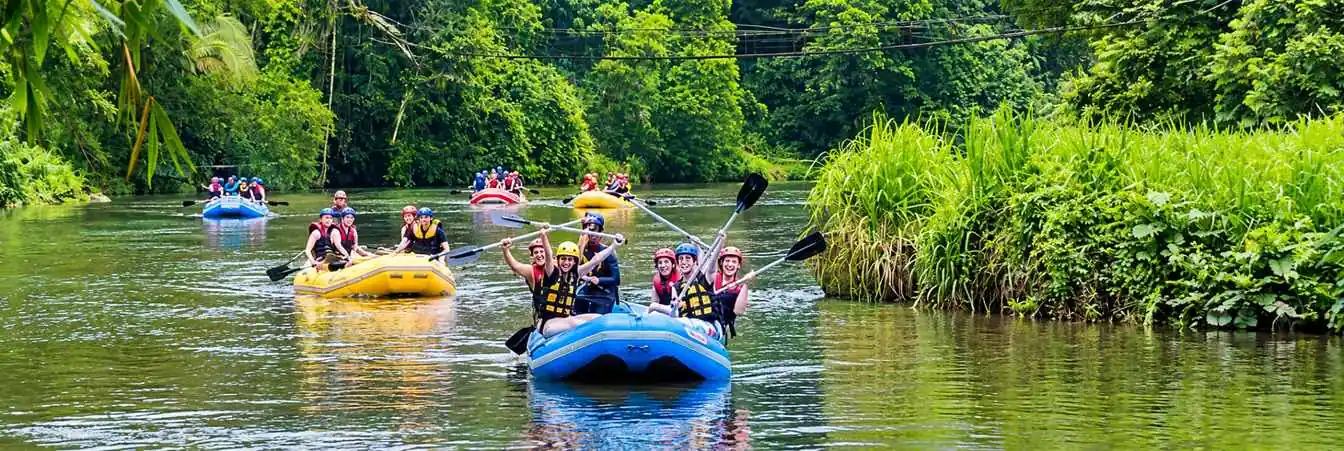
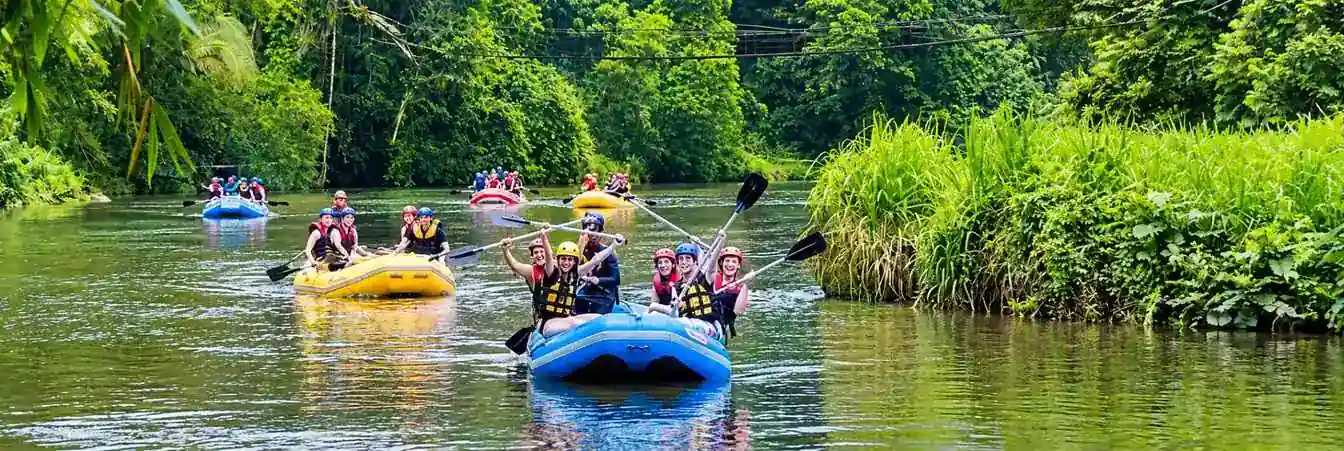
HTML update

diff --git a/wwr/about.html b/wwr/about.html
@@ -18,7 +18,7 @@
 <body>
 
     <header>
-        <img src="images/raftinglogo.jpg"
+        <img src="images/raftinglogo.webp"
           alt="Rafting company logo featuring paddles, a whitewater raft, and rafters" width="128"
           height="128">
 
@@ -41,7 +41,7 @@
             <h1>RiverNest Rafting</h1>
 
             <article>
-                <img src="images/happy-client.jpg" alt="Happy client enjoying a rafting adventure"
+                <img src="images/happy-client.webp" alt="Happy client enjoying a rafting adventure"
                   width="128" height="128">
 
                 <p>
@@ -82,7 +82,7 @@
             <div class="adventure-gallery">
 
                 <figure>
-                    <img src="images/whitewater-adventure.jpg"
+                    <img src="images/whitewater-adventure.webp"
                       alt="Rafters navigating a thrilling whitewater river" width="128"
                       height="128">
 
@@ -92,7 +92,7 @@
                 </figure>
 
                 <figure>
-                    <img src="images/whitewater-raft.jpg"
+                    <img src="images/whitewater-raft.webp"
                       alt="Rafters navigating through whitewater rapids" width="128" height="128">
 
                     <figcaption>
@@ -101,7 +101,7 @@
                 </figure>
 
                 <figure>
-                    <img src="images/half-day-adventure.jpg"
+                    <img src="images/half-day-adventure.webp"
                       alt="Rafters enjoying a half-day whitewater adventure" width="128"
                       height="128">
 
@@ -121,7 +121,7 @@
                 </figure>
 
                 <figure>
-                    <img src="images/rapid-adventure.jpg"
+                    <img src="images/rapid-adventure.webp"
                       alt="Rafters enjoying an exciting rapid adventure" width="128" height="128">
 
                     <figcaption>
@@ -138,15 +138,15 @@
 
         <nav class="socialmedia">
             <a href="https://facebook.com">
-                <img src="images/facebook.svg.webp" alt="Facebook Icon" width="25" height="25">
+                <img src="images/facebook.svg.jpg" alt="Facebook Icon" width="25" height="25">
             </a>
 
             <a href="https://linkedin.com">
-                <img src="images/linkedin.svg.webp" alt="LinkedIn Icon" width="25" height="25">
+                <img src="images/linkedin.svg.jpg" alt="LinkedIn Icon" width="25" height="25">
             </a>
 
             <a href="https://instagram.com">
-                <img src="images/instagram.svg.jpg" alt="Instagram Icon" width="25" height="25">
+                <img src="images/instagram.svg.webp" alt="Instagram Icon" width="25" height="25">
             </a>
         </nav>
 
